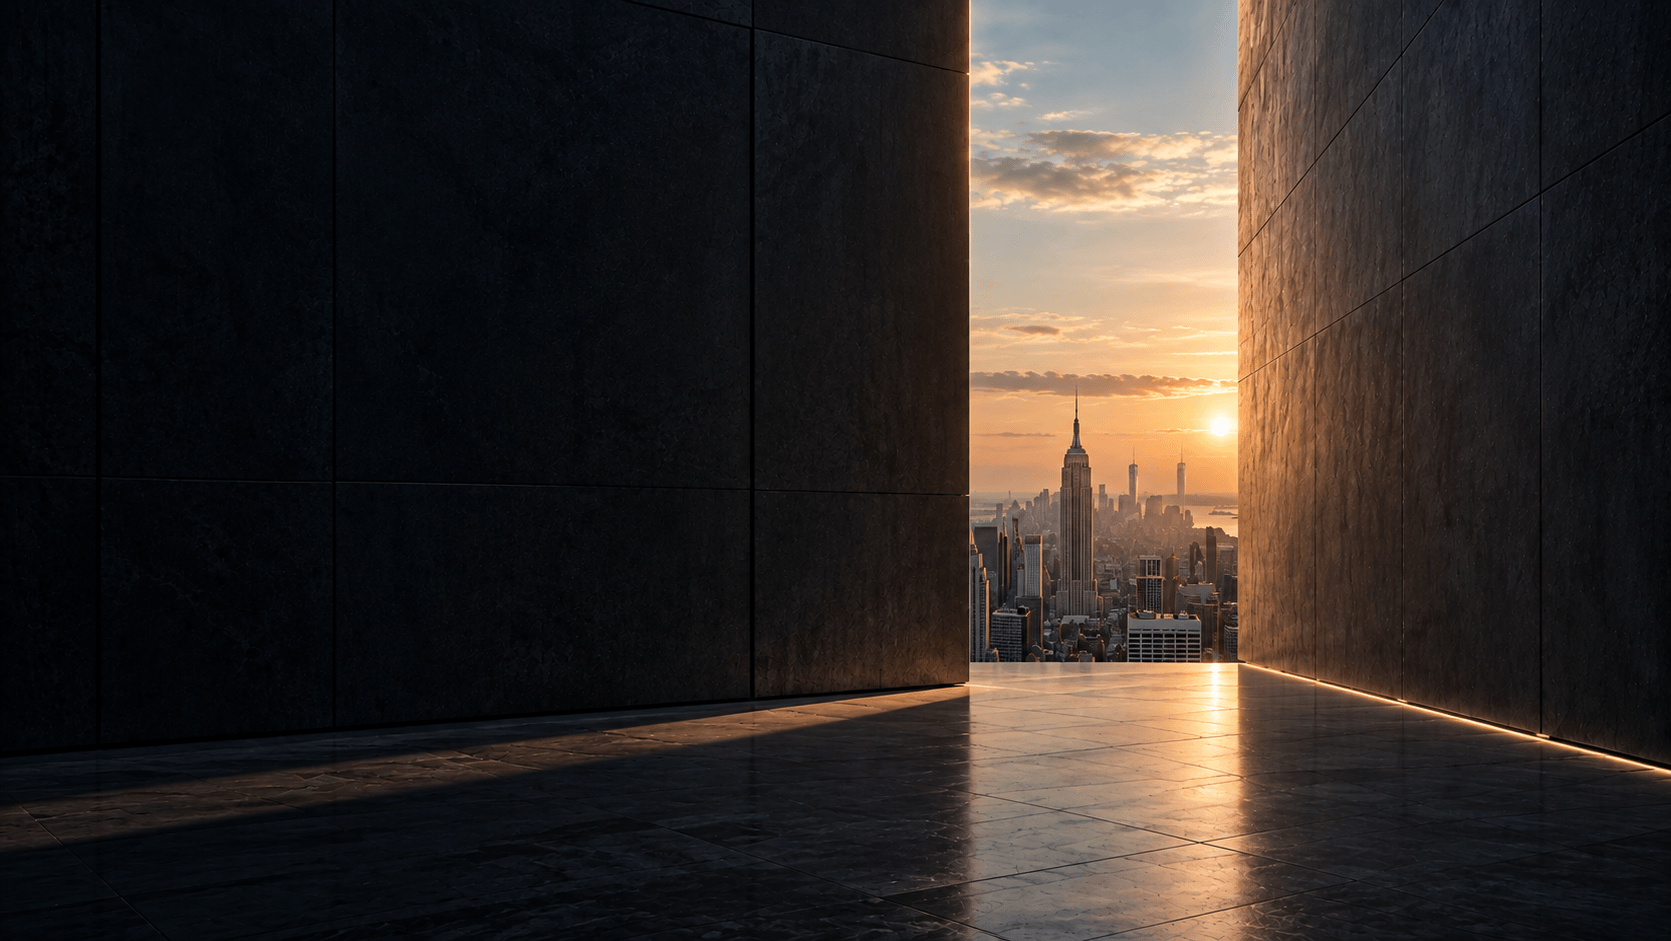
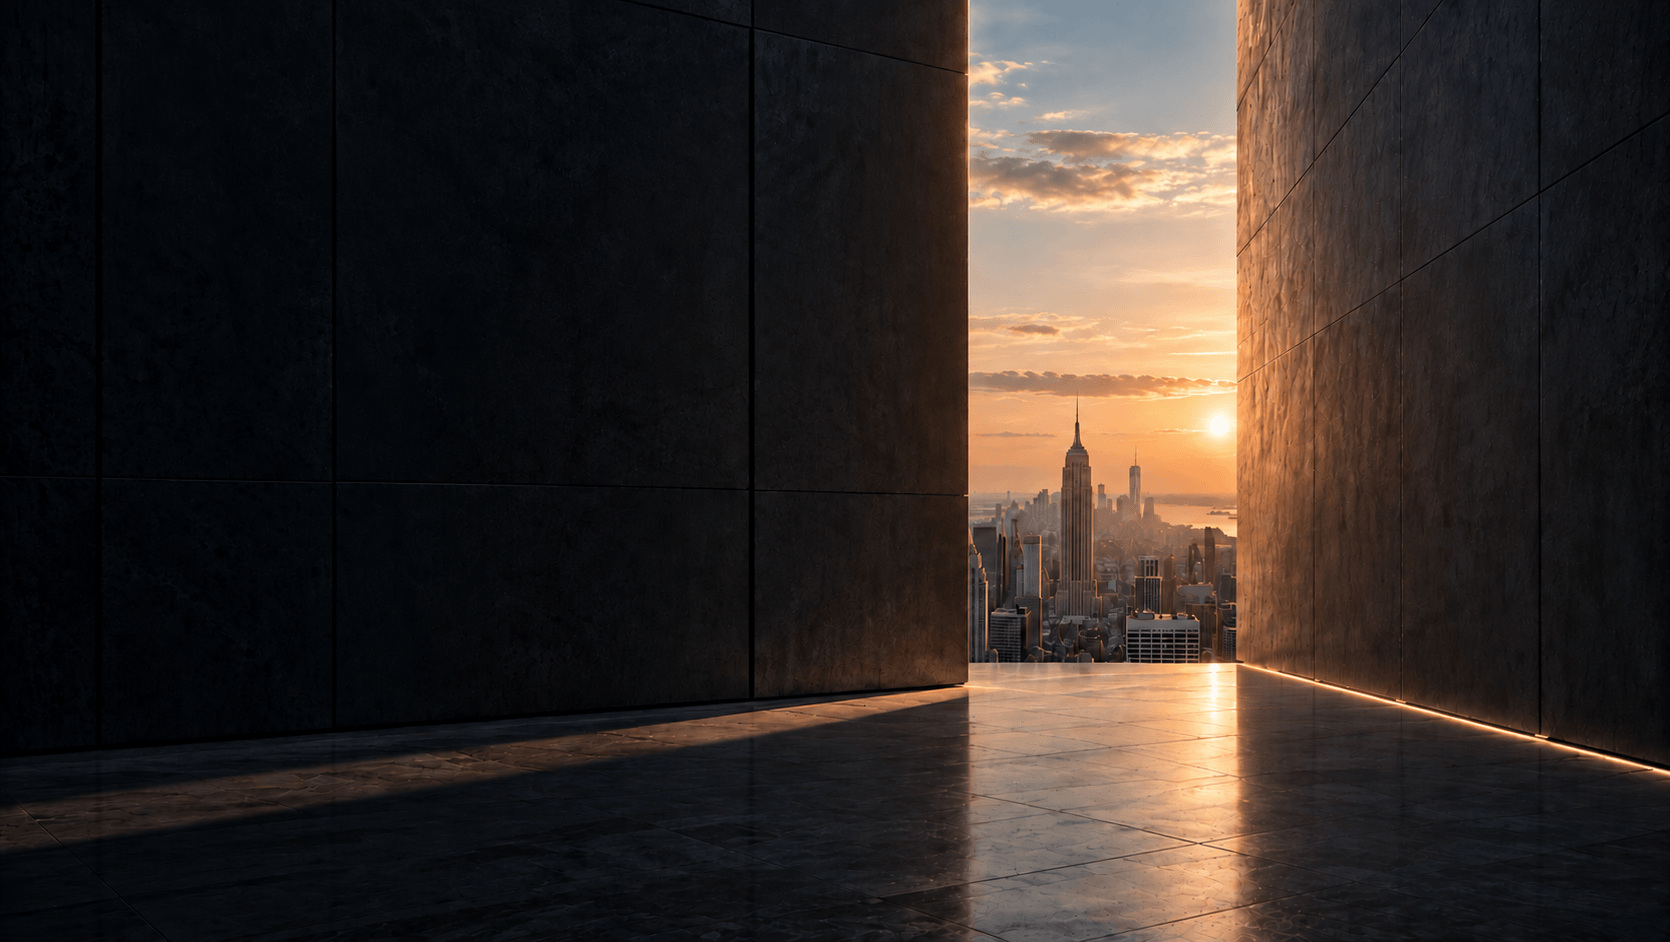
update images

diff --git a/inquiry-desk.html b/inquiry-desk.html
@@ -23,13 +23,13 @@
 <meta property="og:title" content="Inquiry Desk — External View">
 <meta property="og:description" content="Inquiry Desk by External View gives investor relations and impact teams a shared system to capture ESG investor inquiries, coordinate replies, and report on the issues shaping investor expectations.">
 <meta property="og:url" content="https://externalview.ai/inquiry-desk.html">
-<meta property="og:image" content="https://externalview.ai/bgimage.png">
-<meta property="og:image:width" content="1536">
-<meta property="og:image:height" content="1024">
+<meta property="og:image" content="https://externalview.ai/inquiry_desk3.png">
+<meta property="og:image:width" content="1916">
+<meta property="og:image:height" content="821">
 <meta name="twitter:card" content="summary_large_image">
 <meta name="twitter:title" content="Inquiry Desk — External View">
 <meta name="twitter:description" content="Inquiry Desk by External View gives investor relations and impact teams a shared system to capture ESG investor inquiries, coordinate replies, and report on the issues shaping investor expectations.">
-<meta name="twitter:image" content="https://externalview.ai/bgimage.png">
+<meta name="twitter:image" content="https://externalview.ai/inquiry_desk3.png">
 <link href="https://fonts.googleapis.com" rel="preconnect">
 <link href="https://fonts.googleapis.com/css2?family=Inter:ital,wght@0,300;0,400;0,500;0,600;0,700;1,400&amp;display=swap" rel="stylesheet">
 <style>

diff --git a/index.html b/index.html
@@ -23,13 +23,13 @@
 <meta property="og:title" content="External View — The Intelligence Layer for External Affairs">
 <meta property="og:description" content="External View is the AI platform for third-party management. Track partner performance, spend accountability, and organization relationships in one place.">
 <meta property="og:url" content="https://externalview.ai/">
-<meta property="og:image" content="https://externalview.ai/bgimage.png">
-<meta property="og:image:width" content="1536">
-<meta property="og:image:height" content="1024">
+<meta property="og:image" content="https://externalview.ai/nyc.png">
+<meta property="og:image:width" content="1671">
+<meta property="og:image:height" content="941">
 <meta name="twitter:card" content="summary_large_image">
 <meta name="twitter:title" content="External View — The Intelligence Layer for External Affairs">
 <meta name="twitter:description" content="External View is the AI platform for third-party management. Track partner performance, spend accountability, and organization relationships in one place.">
-<meta name="twitter:image" content="https://externalview.ai/bgimage.png">
+<meta name="twitter:image" content="https://externalview.ai/nyc.png">
 <link href="https://fonts.googleapis.com" rel="preconnect">
 <link href="https://fonts.googleapis.com/css2?family=Inter:ital,wght@0,300;0,400;0,500;0,600;0,700;1,400&amp;display=swap" rel="stylesheet">
 <style>
